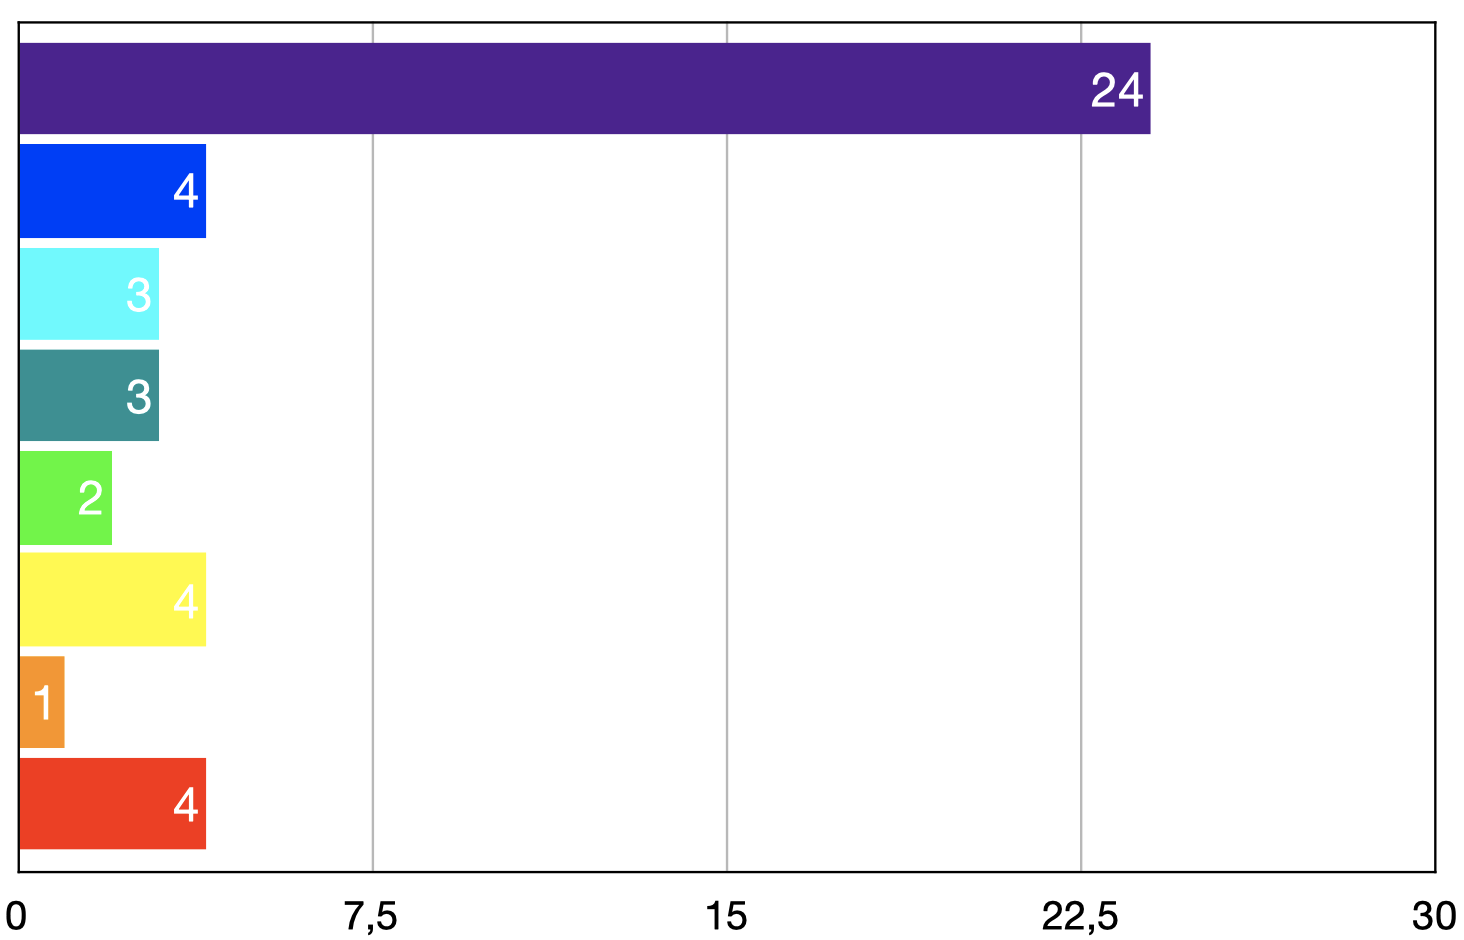
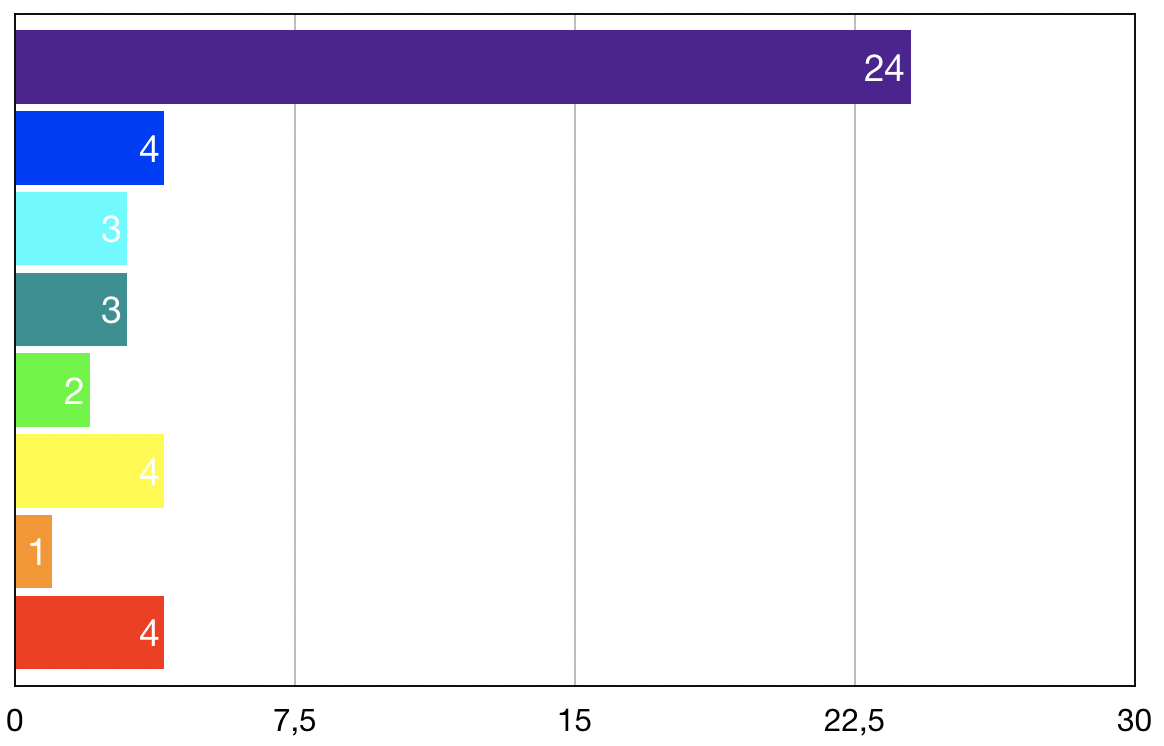
add analysis content

diff --git a/Portfolio/nfl/templates/nfl_stats/nfl_index.html b/Portfolio/nfl/templates/nfl_stats/nfl_index.html
@@ -48,6 +48,9 @@
       • Games attended as starting Quarterback <br>
       • Draft round <br>
     </p>
+    <table>
+      <td> <img class="data-horizontal" src="/static/nfl/data_head_1.png" alt=""> </td>
+    </table>
   </div>
 </div>
 
@@ -57,19 +60,40 @@
 
     <p class='data-analysis'>
       The collected and cleaned data had now to be explored.
-      I used various methods to gain insights and search for visible patterns to make generalized predictions beyond the sample set.<br>
+      I used various methods to gain insights and search for visible
+      patterns to make generalized predictions beyond the sample set.<br>
+      <br>
+      Starting off with a statistical overview to get familiar with the data:
+    </p>
+
+
+    <td> <img class="data-horizontal" src="/static/nfl/stat_overview_1.png" alt=""> </td>
+    <p class='data-analysis'>
+      Strikingly the 50% and 75% quantile values stand out. It reveals that the majority of the Quarterbacks
+      which made the criteria are actually first round picks and that only 25% were drafted later than round 4.
     </p>
 
     <table>
-      <td class="freq-table"><img class="data-image" src="/static/nfl/freq_dist.png" alt=""></td>
-      <td><img class="data-image" src="/static/nfl/bullet_diag.png" alt=""></td>
+      <td>
+        <p class='data-analysis-table'>
+          Looking at the distribution we see how the first round picks outweigh the list of postseason attendant
+          Quarterbacks and surprisingly the draft rounds 2 - 8(UDFA) don't show a decreasing frequency as may be expected.
+          In fact, the draft rounds 2, 6 and undrafted Quarterbacks make up the same amount and the rest is close behind.
+        </p>
+      </td>
+      <td> <img class="data-vertical-table" src="/static/nfl/draft_skewness_1.png" alt=""> </td>
+    </table>
+
+    <table class="freq-table">
+      <td><img class="data-image-m" src="/static/nfl/freq_dist.png" alt=""></td>
+      <td><img class="data-image-m" src="/static/nfl/bullet_diag.png" alt=""></td>
     </table>
 
     <p class='data-analysis'>
+      At this point, the question occurs how the players drafted in the first round differ from later picks.
+      Therefore we take a closer look at the stats each player achieved within the first 3 years after the draft.<br>
       <br>
-      This part refers to each players first three years of professional football:<br>
-      <br>
-      This heat map shows the correlation between the Quarterback stats, the correlation coefficient indicates dependencies and is
+      These heat maps show the correlation between the Quarterback stats, the correlation coefficient indicates dependencies and is
       scalable from 1.0(perfect positive correlation) over 0.0(no correlation) to -1.0(perfect negative correlation).
     </p>
 
@@ -80,50 +104,129 @@
     </table>
 
     <p class="data-analysis">
-      This allows the assumption that Quarterbacks that make it into the league are going to average a predictable ratio of
-      completions, yards, touchdowns, and even interceptions given a certain amount of attempts.
-      Furthermore, the negative correlation of the draft round to the other stats illustrates that a smaller (earlier) draft round
-      leads to increased Qb related stats.
+      We can see an outstanding positive correlation in between the stats which allows the assumption
+      that Quarterbacks that make it into the league are going to average a predictable ratio of completions,
+      yards, touchdowns, and even interceptions given the proportionate amount of attempts.<br>
+      Furthermore, the negative correlation of the draft round to the other stats illustrates that a smaller (earlier)
+      draft round goes along with increased Qb related stats.<br>
+      <br>
+      The insights we gained through the correlation heat maps emphasize that the stats are highly based on the number
+      of attempts and that this deserves differentiation in more detail.<br>
+      <br>
+      <br>
+      The following statistical overview shows the ratio of completions, yards, touchdowns, and interceptions in relation
+      to the number of attempts:
     </p>
-    <p class="data-analysis">
-      The insights we gained through the correlation heatmap emphasize that the stats are highly based on the number of attempts
-      and that this deserves differentiation in more detail.
-      Moreover, if the first premise is true that means the negative correlation of the draft round to all the other stats is also based
-      on the attempts or rather on the number of games a quarterback gets to start.
-    </p>
 
     <table>
-      <td> 1. Year<img class="data-image" src="/static/nfl/cmp:att_1.png" alt=""></td>
-      <td> 2. Year<img class="data-image" src="/static/nfl/cmp:att_2.png" alt=""></td>
-      <td> 3. Year<img class="data-image" src="/static/nfl/cmp:att_3.png" alt=""></td>
-    </table>
-
-    <table>
-      <td> 1. Year<img class="data-image" src="/static/nfl/yds:att_1.png" alt=""></td>
-      <td> 2. Year<img class="data-image" src="/static/nfl/yds:att_2.png" alt=""></td>
-      <td> 3. Year<img class="data-image" src="/static/nfl/yds:att_3.png" alt=""></td>
-    </table>
-
-    <table>
-      <td> 1. Year<img class="data-image" src="/static/nfl/td:att_1.png" alt=""></td>
-      <td> 2. Year<img class="data-image" src="/static/nfl/td:att_2.png" alt=""></td>
-      <td> 3. Year<img class="data-image" src="/static/nfl/td:att_3.png" alt=""></td>
-    </table>
-
-    <table>
-      <td> 1. Year<img class="data-image" src="/static/nfl/int:att_1.png" alt=""></td>
-      <td> 2. Year<img class="data-image" src="/static/nfl/int:att_2.png" alt=""></td>
-      <td> 3. Year<img class="data-image" src="/static/nfl/int:att_3.png" alt=""></td>
+      <td> <img class="data-horizontal" src="/static/nfl/stat_per_att_overview_1.png" alt=""> </td>
     </table>
 
     <p class="data-analysis">
-      The conclusion we can draw is that the Quarterbacks drafted early on, not necessarily differ a lot in their
-      ability to produce results. However, the organizations that draft Quarterbacks initially in general expected them
-      to be able to lead an NFL team as soon as possible.
-      This leads through more experience early on in their career which then results in more consistent results.
-      And over time in a more complete player who can also compete in the postseason and onto the super bowl.
+      Examining the chart, especially the extreme values catch the eye.
+      Values like these are notably unrealistic and to get a better understanding of how these values fit into the bigger
+      picture a boxplot comes in handy.
     </p>
 
+    <table>
+      <td> <img class="data-horizontal" src="/static/nfl/outliers_1.png" alt=""> </td>
+    </table>
+
+    <p class="data-analysis">
+      The extrema we observed prior are now visible as outliers.<br>
+      Exceptional values like these are the result of a very small number of attempts which either went better than average or
+      below average but have no statistical usability.<br>
+      Further investigations are made without the outlying values that were based on an unrepresentative number of attempts.
+      This ensures more accurate predictions.<br>
+      <br>
+      <br>
+      The following collection of scatter plots displays the completion-, yard-, touchdown- and interception-ratio within a three
+      year time period with a black line indicating the mean value.
+    </p>
+
+    <table class="table-s">
+      <td><img class="data-image-s" src="/static/nfl/cmp_1.png" alt=""></td>
+      <td><img class="data-image-s" src="/static/nfl/cmp_2.png" alt=""></td>
+      <td><img class="data-image-s" src="/static/nfl/cmp_3.png" alt=""></td>
+    </table>
+
+    <table class="table-s">
+      <td><img class="data-image-s" src="/static/nfl/yds_1.png" alt=""></td>
+      <td><img class="data-image-s" src="/static/nfl/yds_2.png" alt=""></td>
+      <td><img class="data-image-s" src="/static/nfl/yds_3.png" alt=""></td>
+    </table>
+
+    <table class="table-s">
+      <td><img class="data-image-s" src="/static/nfl/td_1.png" alt=""></td>
+      <td><img class="data-image-s" src="/static/nfl/td_2.png" alt=""></td>
+      <td><img class="data-image-s" src="/static/nfl/td_3.png" alt=""></td>
+    </table>
+
+    <table class="table-s">
+      <td><img class="data-image-s" src="/static/nfl/int_1.png" alt=""></td>
+      <td><img class="data-image-s" src="/static/nfl/int_2.png" alt=""></td>
+      <td><img class="data-image-s" src="/static/nfl/int_3.png" alt=""></td>
+    </table>
+
+    <p class="data-analysis">
+      The primal observation at this point is that the Quarterbacks drafted early on,
+      not necessarily differ a lot in their yields. In fact, there is no conclusive evidence
+      that first round Quarterbacks clearly stand out from others.<br>
+      However, the sheer number of first rounders is strikingly visible again.<br>
+      <br>
+      Concluding there is another factor for a Franchise to draft Quarterbacks early rather than significant
+      performance differences.
+      When considering to draft a Quarterback initially in the draft, this goes along with the
+      potential upside an outstanding new leader could have on the team.
+      Moreover, first round picks, in general, are expected to be able to make a difference right
+      away which then leads to more experience early on in their career.
+      Over time the consequence of this process is that the more experienced players can produce constant
+      results and are able to compete on bigger stages like the postseason or the super bowl.<br>
+      <br>
+      <br>
+      Looking at the number of games the Quarterbacks get to start, shows a clear differential favoring
+      the players being drafted early.
+    </p>
+
+    <table>
+      <td> 1. Year<img class="data-image" src="/static/nfl/gs_1.png" alt=""></td>
+      <td> 2. Year<img class="data-image" src="/static/nfl/gs_2.png" alt=""></td>
+      <td> 3. Year<img class="data-image" src="/static/nfl/gs_3.png" alt=""></td>
+    </table>
+
+    <p class="data-analysis">
+      Concluding can be said that Quarterbacks need to have a brought skillset to be successful on a professional level.<br>
+      <br>
+      Firstly, the ability to produce consistent results is crucial to enter the league and is even more important once drafted,
+      to be considered as a starting player.
+      To put some numbers on, these are the ratios the Quarterbacks who attendant a postseason averaged in their first three years:<br>
+    </p>
+      <table class="freq-table">
+        <tr>
+          <td class="stat-table">• Completion %</td>
+          <td class="stat-table">: >=  59.5</td>
+        </tr>
+        <tr>
+          <td class="stat-table">• Yards per attempt</td>
+          <td class="stat-table">: >=  6.95</td>
+        </tr>
+        <tr>
+          <td class="stat-table">• Touchdown %</td>
+          <td class="stat-table">: >=  3.84</td>
+        </tr>
+        <tr>
+          <td class="stat-table">• Interception %</td>
+          <td class="stat-table">: <=  3.0</td>
+        </tr>
+      </table>
+
+    <p class="data-analysis">
+      However, to be able to gain enough experience to execute well under pressure on a big stage,
+      the draft round plays a major role.<br>
+      The earlier the draft round the better the chances are to get to work right away. The later the draft
+      round the more important it is to deliver whenever the opportunity occures.<br>
+      Just like 6 round pick and 6-time super bowl winning Quarterback Mr. Tom Brady said:
+    </p>
   </div>
 
 </div>

diff --git a/Portfolio/static/my_css/master.css b/Portfolio/static/my_css/master.css
@@ -454,12 +454,51 @@ footer .container .font-footer-intro{
   margin-right: 15em;
 }
 
-.freq_table{
-  margin-left: 10em;
-  margin-right: auto;
-  text-align: center;
+.data-analysis-table{
+  font-size: 1.2em;
+  text-align: justify;
+  margin-left: 15em;
+}
+
+.data-horizontal{
+  width: 740px;
+  margin-left: 18em;
+  margin-right: 18em;
+}
+
+.data-vertical{
+  height: 400px;
+  margin-left: 16.5em;
+  margin-right: 16.5em;
+}
+
+.data-vertical-table{
+  height: 400px;
+  margin-right: 17.5em;
+  margin-left: 2em;
+}
+
+.freq-table{
+  margin-left: 18em;
 }
 
 .data-image{
   width: 420px;
+}
+
+.data-image-m{
+  width: 375px;
+}
+
+.data-image-s{
+  width: 248px;
+}
+
+.table-s{
+  margin-left: 18em;
+}
+
+.stat-table{
+  font-size: 1.15em;
+
 }
